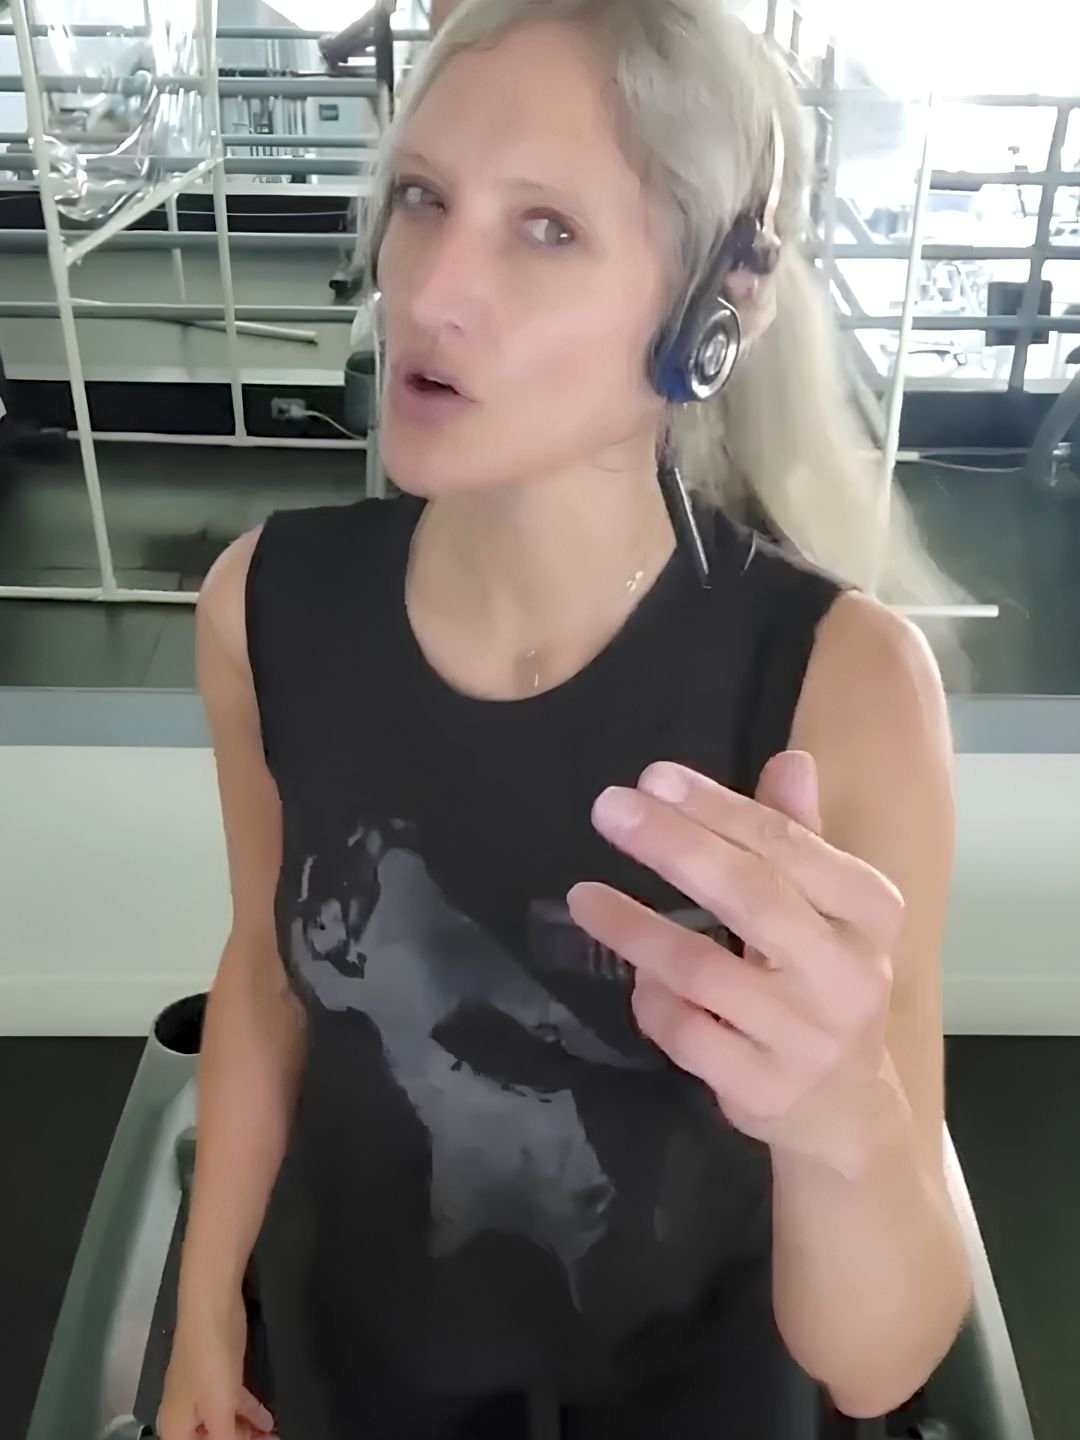
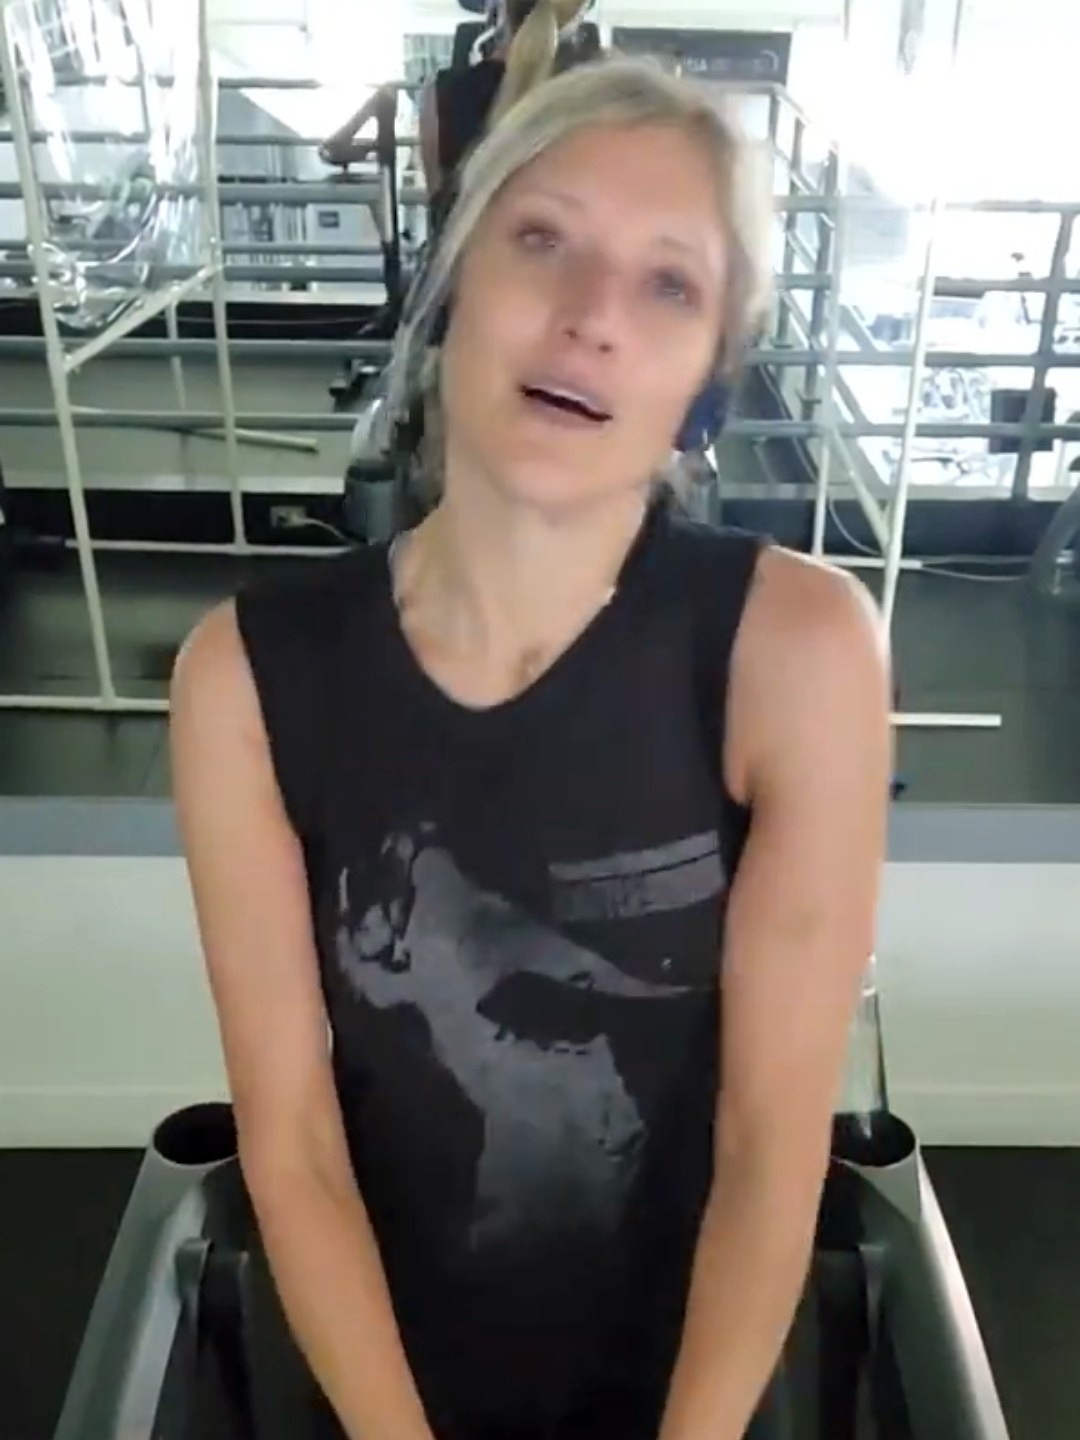
new eliptical thumnail +phone

diff --git a/index.html b/index.html
@@ -1001,7 +1001,20 @@
   #artist-view .who .sub span { display: none !important; }
   #artist-view .who .sub a { display: inline-block; border: 1px solid rgba(255,255,255,.6) !important; border-radius: 999px; padding: 10px 22px !important; font-size: 11px !important; letter-spacing: .3em !important; text-decoration: none; }
 }
+
+/* PHONE HOLDING SCREEN: the site is desktop-only for now */
+#phone-hold { display: none; }
+@media (max-width: 760px) {
+  #phone-hold { display: grid; position: fixed; inset: 0; z-index: 100000; background: #000; color: #f2f4f7; place-content: center; justify-items: center; gap: 26px; padding: 32px 28px; text-align: center; font: 400 13px/1.8 'IBM Plex Mono', ui-monospace, Menlo, monospace; }
+  #phone-hold img { width: min(78vw, 340px); display: block; }
+  #phone-hold h1 { margin: 0; font: 400 15px/1.6 'IBM Plex Mono', monospace; letter-spacing: .3em; text-transform: uppercase; }
+  #phone-hold p { margin: 0; max-width: 30ch; color: rgba(242,244,247,.85); }
+  #phone-hold .mail { letter-spacing: .08em; border-bottom: 1px solid rgba(242,244,247,.4); padding-bottom: 3px; user-select: all; }
+  body > *:not(#phone-hold) { visibility: hidden; }
+}
 </style>
+<div id="phone-hold" role="dialog" aria-label="Desktop only"><img alt="Seenik" src="img/logo-black.jpg"><h1>Best on desktop</h1><p>The full Seenik experience is built for a larger screen. A mobile version is coming soon.</p><p>Get in touch</p><span class="mail">sandy@seenik.studio</span></div>
+
 
 <canvas id="stage" aria-label="A floating geometric shape made of particles that scatters when you move through it"></canvas>
 <canvas id="stars" aria-hidden="true"></canvas>
